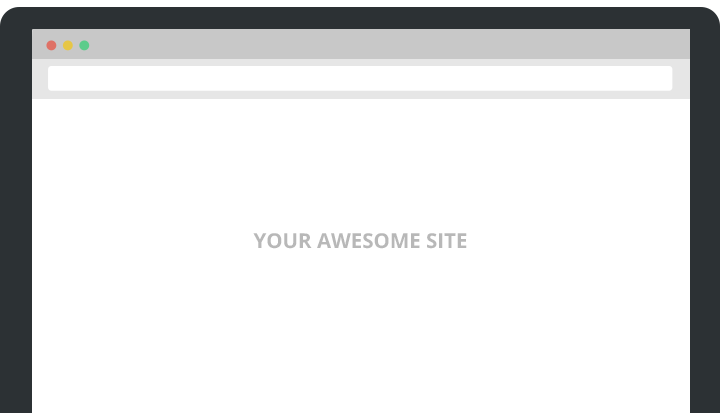
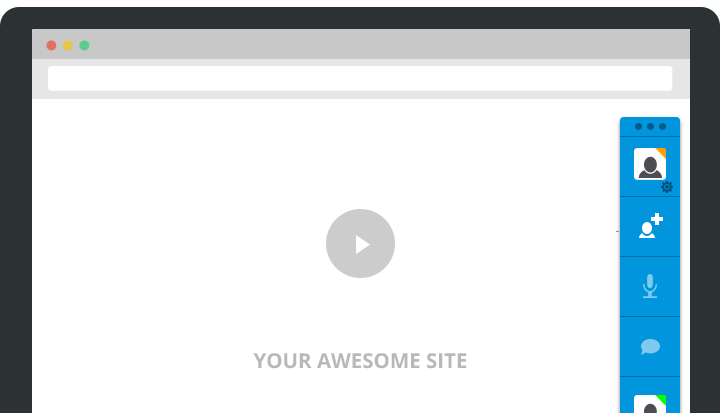
updating the site

Changed region(s): [[0.8556, 0.2615, 0.9472, 1.0], [0.3361, 0.4939, 0.6417, 0.6973], [0.3361, 0.8426, 0.6417, 0.9007]]

diff --git a/site-reboot/css/style.css b/site-reboot/css/style.css
@@ -242,6 +242,10 @@ h4 {
   //background: rgba(0,0,0,0.5);
 }
 
+#video-area {
+  cursor: pointer;
+}
+
 
 /* =modal video
 ----------------------------------------------- */
